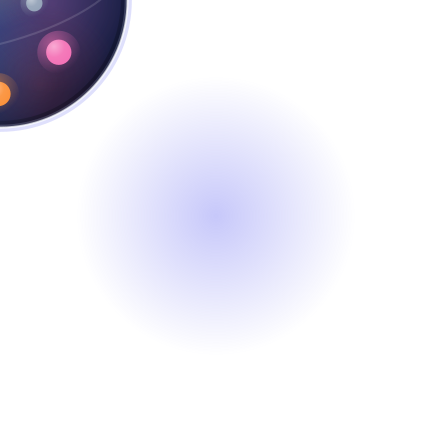
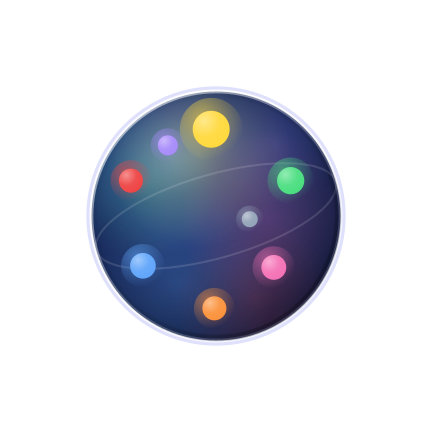
fix(branding): centre the scaled planet art and verify the whole asset set
The scaled variants (adaptive foreground, maskable, logo) mapped the
planet centre to (0,0) instead of the canvas centre, so the art landed in
the top-left corner and the Android 12 splash plus the adaptive icon were
wrong. planet() now defaults dx/dy to the canvas centre, and the adaptive
foreground uses planet radius 295 so even the rim glow stays inside the
66/108 safe zone.

Adds assets/branding/verify_assets.py, which fails loudly on: art outside
the adaptive/maskable safe zones, a missing background on the transparent
renders, wrong PNG sizes, and missing android/web resources or PWA meta
tags. All checks pass, including the 432px adaptive foreground.

Also documents the pipeline and the safe-zone numbers in docs/BRANDING.md,
including the ordering trap: flutter_launcher_icons rewrites web/icons,
web/favicon.png and web/manifest.json, so render_icons.sh runs again after
both generators.

diff --git a/assets/branding/verify_assets.py b/assets/branding/verify_assets.py
@@ -1,0 +1,171 @@
+#!/usr/bin/env python3
+"""Verify the brand art stays inside the platform safe zones.
+
+Two metrics:
+  * alpha extent, for images that must be transparent (adaptive foreground,
+    splash hero, logo);
+  * art extent, for the maskable icon, measured by re-rendering the same SVG
+    with the full-bleed background rect removed, so the remaining alpha is
+    exactly the halo + planet art.
+"""
+import math
+import re
+import subprocess
+import sys
+import tempfile
+from pathlib import Path
+from PIL import Image
+
+BRAND = Path("/root/workspace/emosphere/assets/branding")
+TMP = Path(tempfile.mkdtemp(prefix="emosphere-verify-"))
+
+ADAPTIVE_SAFE = 1024 * (66.0 / 108.0) / 2   # Android: centre 66dp of the 108dp canvas
+MASKABLE_SAFE = 1024 * 0.80 / 2             # PWA: 80% minimum safe zone
+
+
+def alpha_extent(path, thresholds=(8, 64)) -> dict[int, float]:
+    im = Image.open(path).convert("RGBA")
+    w, h = im.size
+    a = im.getchannel("A")
+    assert a is not None
+    px = a.load()
+    cx, cy = w / 2.0, h / 2.0
+    worst: dict[int, float] = {t: 0.0 for t in thresholds}
+    for y in range(h):
+        for x in range(w):
+            v = px[x, y]
+            if v > min(thresholds):
+                r = math.hypot(x + 0.5 - cx, y + 0.5 - cy)
+                for t in thresholds:
+                    if v > t and r > worst[t]:
+                        worst[t] = r
+    scale = 1024.0 / w
+    return {t: r * scale for t, r in worst.items()}
+
+
+def strip_background(svg_name, tag):
+    src = (BRAND / svg_name).read_text(encoding="utf-8")
+    stripped, n = re.subn(r'<rect width="\d+" height="\d+" fill="url\(#bg\)"/>', "", src)
+    if n != 1:
+        raise SystemExit(f"{svg_name}: expected one background rect, found {n}")
+    tmp_svg = TMP / f"{tag}_art.svg"
+    tmp_png = TMP / f"{tag}_art.png"
+    tmp_svg.write_text(stripped, encoding="utf-8")
+    subprocess.run(["rsvg-convert", "-w", "512", "-h", "512", str(tmp_svg), "-o", str(tmp_png)],
+                   check=True)
+    return tmp_png
+
+
+failures = []
+
+
+def check(label, radius, safe, extra=""):
+    ok = radius <= safe
+    print(f"  {label:34s} {radius:7.1f} / {safe:6.1f}  {'OK' if ok else 'OUTSIDE SAFE ZONE'} {extra}")
+    if not ok:
+        failures.append(label)
+
+
+print("Android adaptive foreground (art must be inside the 66/108 zone, radius 312.9)")
+for name in ("emosphere_adaptive_foreground_1024.png", "android_adaptive_foreground_432.png"):
+    ext = alpha_extent(BRAND / name)
+    check(name, ext[8], ADAPTIVE_SAFE, f"(alpha>64 at {ext[64]:.1f})")
+
+print("\nTransparency (these three must have no background)")
+for name in ("emosphere_adaptive_foreground_1024.png", "emosphere_logo_1024.png",
+             "emosphere_splash_hero_1024.png"):
+    im = Image.open(BRAND / name).convert("RGBA")
+    w, h = im.size
+    corners = [im.getpixel(p)[3] for p in ((0, 0), (w - 1, 0), (0, h - 1), (w - 1, h - 1))]
+    ok = all(c == 0 for c in corners)
+    print(f"  {name:34s} corner alpha {corners}  {'OK' if ok else 'NOT TRANSPARENT'}")
+    if not ok:
+        failures.append(name)
+
+print("\nMaskable PWA icon (art must be inside the 80% safe zone, radius 409.6)")
+art = strip_background("emosphere_maskable.svg", "maskable")
+ext = alpha_extent(art)
+check("maskable art (bg stripped)", ext[8], MASKABLE_SAFE, f"(alpha>64 at {ext[64]:.1f})")
+
+print("\nSplash art")
+for name, w, h in (("splash_portrait.png", 1080, 2340), ("splash_landscape.png", 2340, 1080)):
+    im = Image.open(BRAND / name)
+    ok = im.size == (w, h)
+    print(f"  {name:34s} {im.size}  {'OK' if ok else f'EXPECTED {w}x{h}'}")
+    if not ok:
+        failures.append(name)
+
+
+# --------------------------------------------------------------------------
+# Inventory: the platform resources the generators are supposed to produce.
+# --------------------------------------------------------------------------
+ROOT = Path("/root/workspace/emosphere")
+RES = ROOT / "android/app/src/main/res"
+WEB = ROOT / "web"
+
+
+def expect_file(path: Path, size=None, note=""):
+    if not path.exists():
+        print(f"  MISSING  {path.relative_to(ROOT)}")
+        failures.append(str(path.relative_to(ROOT)))
+        return
+    detail = ""
+    if size is not None:
+        actual = Image.open(path).size
+        if actual != size:
+            print(f"  WRONG SIZE {path.relative_to(ROOT)} {actual} expected {size}")
+            failures.append(str(path.relative_to(ROOT)))
+            return
+        detail = f"{actual[0]}x{actual[1]}"
+    print(f"  OK       {str(path.relative_to(ROOT)):58s} {detail} {note}")
+
+
+def expect_text(path: Path, needles, note=""):
+    text = path.read_text(encoding="utf-8") if path.exists() else ""
+    missing = [n for n in needles if n not in text]
+    label = path.relative_to(ROOT)
+    if missing:
+        print(f"  MISSING CONTENT {label}: {missing}")
+        failures.append(f"{label}:{missing}")
+    else:
+        print(f"  OK       {str(label):58s} {note}")
+
+
+print("\nAndroid launcher icons (mipmap-*)")
+for density, size in (("mdpi", 48), ("hdpi", 72), ("xhdpi", 96), ("xxhdpi", 144), ("xxxhdpi", 192)):
+    expect_file(RES / f"mipmap-{density}/ic_launcher.png", (size, size))
+expect_text(RES / "mipmap-anydpi-v26/ic_launcher.xml",
+            ["@color/ic_launcher_background", "@drawable/ic_launcher_foreground", 'android:inset="0%"'],
+            "adaptive icon")
+expect_text(RES / "values/colors.xml", ["#0B1020"], "adaptive background colour")
+
+print("\nAndroid adaptive foreground + splash drawables")
+for density, size in (("mdpi", 108), ("hdpi", 162), ("xhdpi", 216), ("xxhdpi", 324), ("xxxhdpi", 432)):
+    expect_file(RES / f"drawable-{density}/ic_launcher_foreground.png", (size, size))
+for density in ("mdpi", "hdpi", "xhdpi", "xxhdpi", "xxxhdpi"):
+    expect_file(RES / f"drawable-{density}/splash.png")
+    expect_file(RES / f"drawable-{density}/android12splash.png")
+    expect_file(RES / f"drawable-night-{density}/splash.png")
+    expect_file(RES / f"drawable-night-{density}/android12splash.png")
+expect_text(RES / "values-v31/styles.xml", ["#0B1020", "android12splash"], "Android 12 splash theme")
+
+print("\nWeb / PWA")
+for name, size in (("Icon-192.png", (192, 192)), ("Icon-512.png", (512, 512)),
+                   ("Icon-maskable-192.png", (192, 192)), ("Icon-maskable-512.png", (512, 512)),
+                   ("apple-touch-icon-180.png", (180, 180))):
+    expect_file(WEB / "icons" / name, size)
+expect_file(WEB / "favicon.png")
+expect_text(WEB / "manifest.json",
+            ['"name": "EmoSphere"', '"short_name": "EmoSphere"', '"display": "standalone"',
+             '"theme_color": "#0B1020"', '"background_color": "#0B1020"',
+             "icons/Icon-192.png", "icons/Icon-512.png", "Icon-maskable-192.png",
+             "Icon-maskable-512.png", '"purpose": "maskable"'],
+            "manifest")
+expect_text(WEB / "index.html",
+            ['name="theme-color" content="#0B1020"', "apple-mobile-web-app-capable",
+             "apple-mobile-web-app-status-bar-style\" content=\"black-translucent",
+             "icons/apple-touch-icon-180.png", "manifest.json"],
+            "index.html meta")
+
+print("\nRESULT:", "ALL CHECKS PASS" if not failures else f"FAILURES: {failures}")
+sys.exit(1 if failures else 0)

diff --git a/assets/branding/build_svgs.py b/assets/branding/build_svgs.py
@@ -148,8 +148,12 @@ def defs(bg=True):
     return "".join(out)
 
 
-def planet(scale=1.0, dx=0.0, dy=0.0, rim=True):
-    """The planet: disc, six-colour nebula wash, one orbit ring, eight dots."""
+def planet(scale=1.0, dx=CX, dy=CY, rim=True):
+    """The planet: disc, six-colour nebula wash, one orbit ring, eight dots.
+
+    [dx], [dy] is where the planet centre lands; scaling happens about it, so
+    the default keeps the planet centred on the canvas.
+    """
     g = []
     t = f'translate({dx},{dy}) scale({scale:g}) translate({-CX},{-CY})' if scale != 1.0 else None
     if t:
@@ -221,9 +225,9 @@ def main():
     )))
 
     # 2. Android adaptive foreground: transparent, art inside the 66/108 safe zone.
-    safe = 300 / R  # planet radius 300 -> 58.6% of the canvas, inside 61.1%
+    safe = 295 / R  # planet radius 295 -> rim stays well inside the 66/108 zone
     write("emosphere_adaptive_foreground.svg", svg(1024, 1024, defs(bg=False) + (
-        f'<circle cx="{CX}" cy="{CY}" r="330" fill="url(#halo)"/>'
+        f'<circle cx="{CX}" cy="{CY}" r="300" fill="url(#halo)"/>'
         + planet(scale=safe)
     )))
 

diff --git a/docs/BRANDING.md b/docs/BRANDING.md
@@ -1,0 +1,81 @@
+# EmoSphere branding pipeline (card 4/7)
+
+How the icon, splash and PWA art are produced. Paths are relative to the repo
+root. The chosen design is Vojta's variant 1, the "nebula planet"
+(`/root/workspace/noc/emosphere-icons/icon_v4_nebula.svg`); a verbatim copy is
+kept as `assets/branding/icon_source.svg` for provenance.
+
+## Source of truth
+
+`assets/branding/*.svg` are the artwork. They are generated by
+`assets/branding/build_svgs.py`, which applies the four refinement rules from
+the icon choice note to the picked variant:
+
+1. **Simplified for small sizes** — one orbit ring instead of three grid
+   ellipses, planet rim 3 → 9px (at 1024), dots enlarged. Legibility probes
+   `emosphere_icon_preview_96.png` and `emosphere_icon_preview_48.png` are kept
+   in the repo so the 48px case can be eyeballed without re-rendering.
+2. **Dot hierarchy + one light direction** — dot radius encodes emotion weight
+   (joy 46 → calm 34 → sad 32 → love 31 → surprise/anger 30 → fear 25 →
+   tired 20) and every gradient (sphere, rim, sheen, dot highlight, dot glow)
+   is lit from the upper-left, `cx`/`cy` at 27–35%.
+3. **Six-colour nebula wash** — joy, love, sad, calm, anger, fear, soft
+   transitions, opacity ≤ 0.30. The remaining two emotions (surprise, tired)
+   appear in the dots only.
+4. **Full output family** — master icon, adaptive foreground and background,
+   maskable, splash hero, wordmark-free logo, splash portrait and landscape.
+
+## Regeneration
+
+Order matters: `flutter_launcher_icons` rewrites `web/icons`,
+`web/favicon.png` and re-serialises `web/manifest.json`, so the web set is
+rendered again afterwards.
+
+```bash
+cd assets/branding
+python3 build_svgs.py && ./render_icons.sh   # SVG -> PNG (rsvg-convert)
+cd ../..
+dart run flutter_launcher_icons              # android res + web icons
+dart run flutter_native_splash:create        # splash drawables + themes
+cd assets/branding
+./render_icons.sh && python3 verify_assets.py
+```
+
+`verify_assets.py` re-checks the safe zones and fails loudly if the art moves
+outside them.
+
+## Safe zones (verified)
+
+| Asset | Constraint | Measured |
+| --- | --- | --- |
+| adaptive foreground | art inside the centre 66dp of 108dp → radius ≤ 312.9/1024 | 307.8 |
+| maskable 192/512 | art inside the 80% safe circle → radius ≤ 409.6/1024 | 326.7 |
+| adaptive foreground, logo, splash hero | no background, all four corners alpha 0 | OK |
+
+The adaptive foreground carries its own inset (planet radius 295/1024), so
+`adaptive_icon_foreground_inset: 0` in `pubspec.yaml` — a plugin-side inset on
+top would shrink the planet to roughly 40% of the canvas.
+
+## Outputs
+
+- `android/app/src/main/res/mipmap-{m,h,xh,xxh,xxxh}dpi/ic_launcher.png` —
+  legacy launcher icon (48 … 192px).
+- `android/app/src/main/res/mipmap-anydpi-v26/ic_launcher.xml` — adaptive icon:
+  `@color/ic_launcher_background` (`#0B1020`) + `@drawable/ic_launcher_foreground`
+  (108 … 432px, the 432px one is `drawable-xxxhdpi`).
+- `android/app/src/main/res/drawable*/splash.png` + `android12splash.png` —
+  pre-Android-12 and Android-12 splash art; `values-v31/styles.xml` and
+  `values-night-v31/styles.xml` carry the `windowSplashScreen*` attributes.
+- `web/icons/Icon-{192,512}.png`, `Icon-maskable-{192,512}.png`,
+  `apple-touch-icon-180.png`, `web/favicon.png` — the PWA set.
+- `web/manifest.json` and `web/index.html` — hand-written, not generated:
+  name/short_name `EmoSphere`, `lang cs`, background/theme `#0B1020`, and the
+  Apple status-bar/theme-color meta tags. Re-apply them if the plugin
+  re-serialises the manifest.
+
+## Theme tokens
+
+Background gradient `#0B1020 → #0E1430`, accent `#6366F1`, emotion palette
+joy `#FFD93D` · calm `#4ADE80` · love `#F472B6` · surprise `#FB923C` ·
+sad `#60A5FA` · anger `#EF4444` · fear `#A78BFA` · tired `#94A3B8`
+(see `docs/SPEC.md` and `lib/theme/app_theme.dart`).
